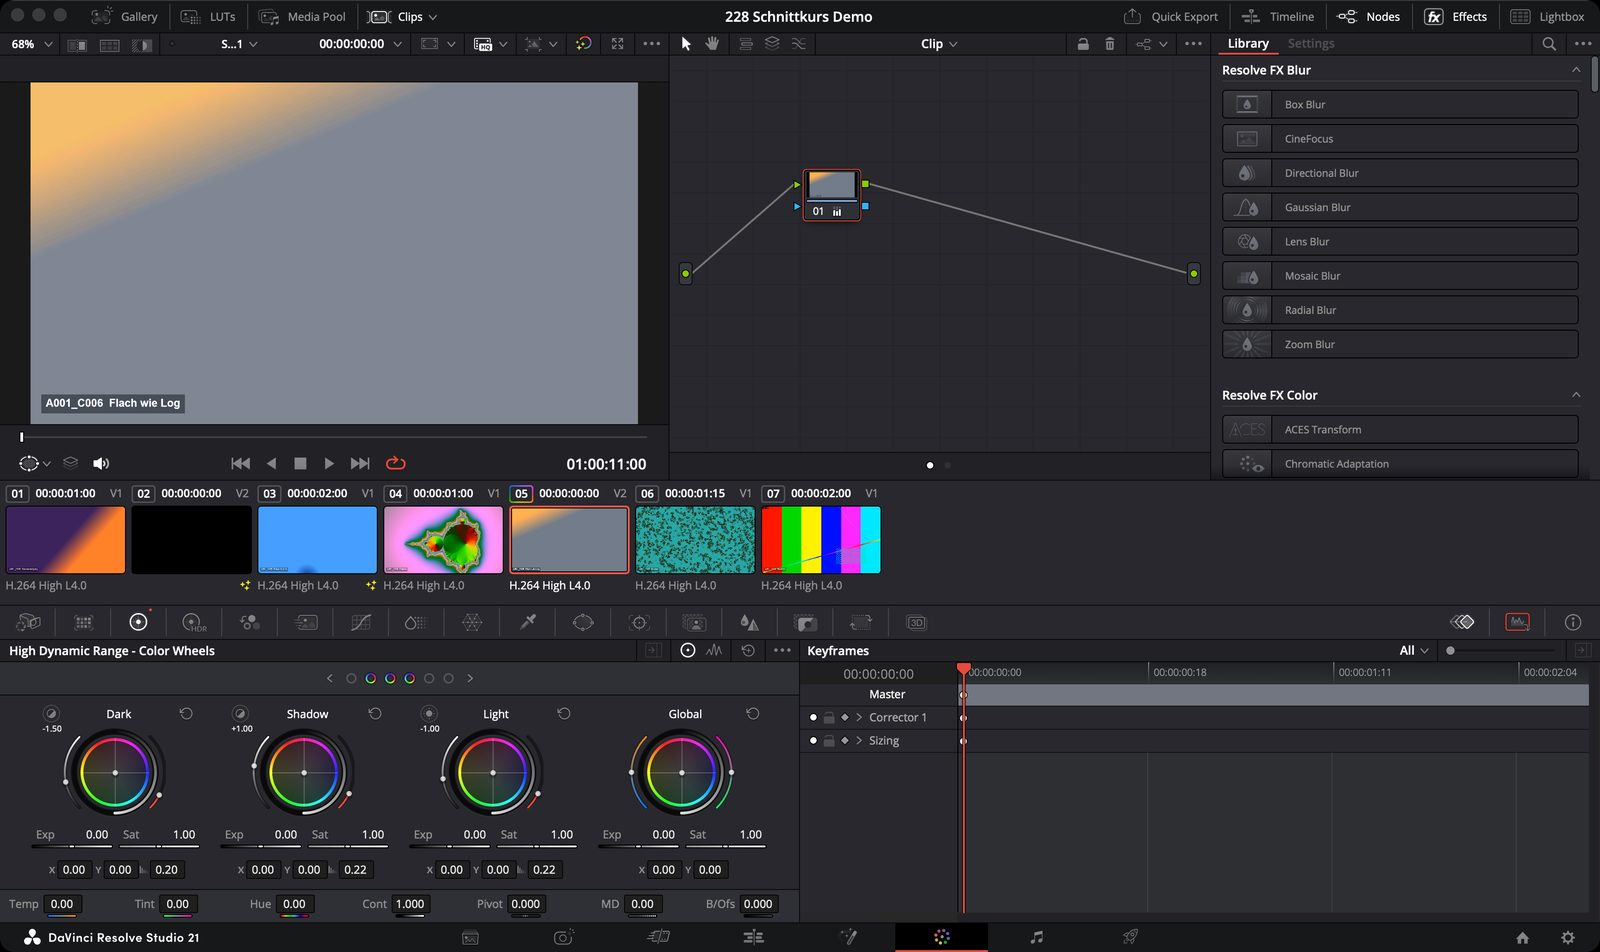
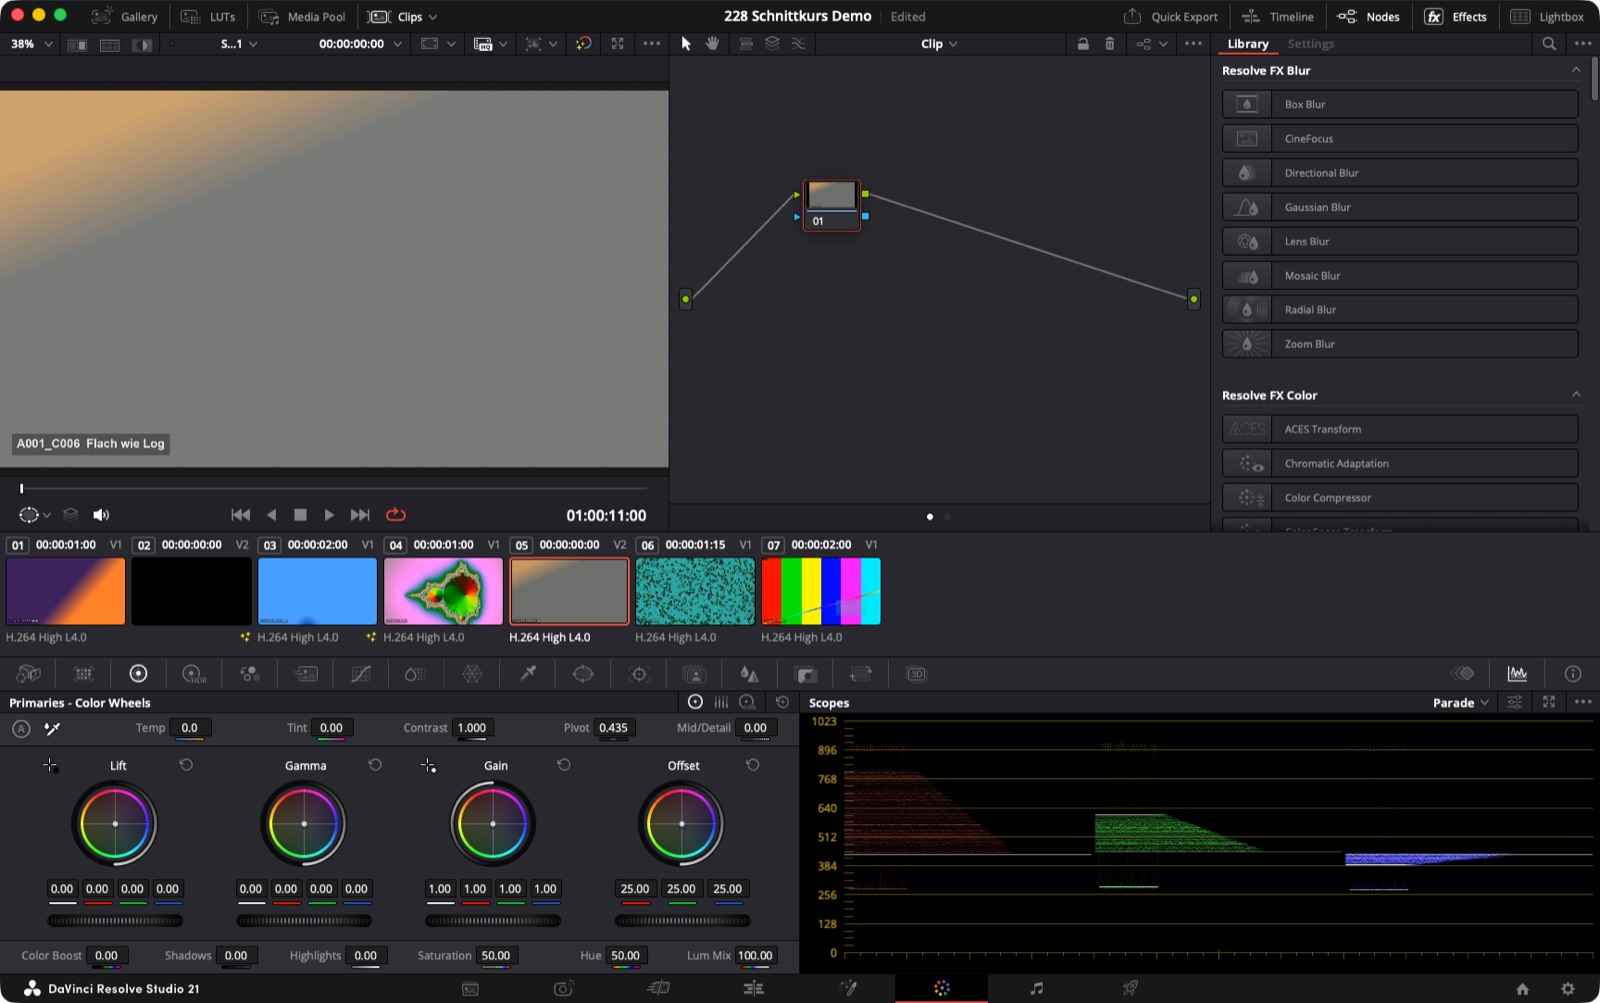
Neue Screenshots: Color Page mit Parade und Standardrädern, Cut Page, Einstellungen, Multicam, Untertitel und Hochformat

diff --git a/js/shots.js b/js/shots.js
@@ -4,8 +4,9 @@
 export const IMG = {
   project_manager: [1600, 1125], settings_master: [1040, 1080], settings_proxy: [1040, 1080], new_timeline: [1000, 576],
   media_page: [1600, 952], edit_full: [1600, 952], inspector: [1600, 952], effects_titles: [1600, 952], effects_transitions: [1600, 952],
-  title_timeline: [1600, 952], retime: [1600, 952], fusion_page: [1600, 952], color_page: [1600, 952], fairlight_page: [1600, 952], deliver_page: [1600, 952],
-  proxy_generator: [1400, 1009]
+  title_timeline: [1600, 952], retime: [1600, 952], fusion_page: [1600, 952], fairlight_page: [1600, 952], deliver_page: [1600, 952],
+  proxy_generator: [1400, 1009], color_page: [1600, 1003], cut_page: [1600, 1003], subtitles: [1600, 1003], vertical: [1600, 1003], multicam: [1600, 1003],
+  prefs_ui: [946, 800], prefs_save: [946, 800]
 };
 
 const TB = 48.8, TH = 3.4; // Werkzeugleiste der Edit Page
@@ -187,16 +188,19 @@ export const SHOTS = {
   l16: {
     why: { de: "Erst korrigieren, dann Look. Die Scopes messen, was das Auge falsch sieht.", en: "Correct first, then the look. Scopes measure what your eye gets wrong." },
     shots: [
-      { img: "color_page", title: { de: "Color Page", en: "Color page" }, spots: [
-        [[0, 4, 40, 43], "Viewer: hier ein flacher Clip wie Log Material.", "Viewer: here a flat clip like log footage."],
-        [[41, 4, 34, 44], "Node Editor: ein Node pro Aufgabe. Neuer Node [[opt+S]].", "Node editor: one node per task. New node [[opt+S]]."],
-        [[0, 51, 56, 11], "Clips der Timeline. Nächsten Clip wählen und [[eq]] übernimmt die Korrektur davor.", "Timeline clips. Select the next clip and [[eq]] copies the correction before it."],
-        [[0, 63, 50, 3.5], "Paletten. Die Räder sitzen unter dem dritten Symbol.", "Palettes. The wheels are under the third icon."],
-        [[0, 66.5, 50, 26.5], "Farbräder für Schatten, Mitten, Lichter, alles. In der Ansicht Primaries heißen sie Lift, Gamma, Gain, Offset.", "Color wheels for shadows, mids, highlights, everything. In the Primaries view they are called Lift, Gamma, Gain, Offset."],
-        [[0, 93, 25, 4], "Temp und Tint: Farbstich raus.", "Temp and Tint: remove color casts."]
+      { img: "color_page", title: { de: "Color Page mit Parade Scope, vorher", en: "Color page with parade scope, before" }, spots: [
+        [[0, 9, 41.8, 37.7], "Viewer: ein flacher Clip wie Log Material.", "Viewer: a flat clip like log footage."],
+        [[50.4, 17.9, 3.5, 5.2], "Node 01. Ein Node pro Aufgabe, neuer Node mit [[opt+S]].", "Node 01. One node per task, new node with [[opt+S]]."],
+        [[0, 53.2, 55.3, 11.3], "Clips der Timeline. Nächsten Clip wählen und [[eq]] übernimmt die Korrektur davor.", "Timeline clips. Select the next clip and [[eq]] copies the correction before it."],
+        [[7.8, 65.9, 1.8, 2.5], "Das dritte Symbol öffnet die Farbräder.", "The third icon opens the color wheels."],
+        [[0, 74.9, 49.9, 16.1], "Lift für Schatten, Gamma für Mitten, Gain für Lichter, Offset für alles.", "Lift for shadows, Gamma for mids, Gain for highlights, Offset for everything."],
+        [[7.9, 71.7, 14.5, 2.1], "Temp und Tint: Farbstich raus.", "Temp and Tint: remove color casts."],
+        [[50.2, 71.2, 49.8, 25.6], "Parade: Rot, Grün und Blau getrennt, Skala 0 bis 1023. Hier liegt alles zusammengedrückt in der Mitte, also Lift runter und Gain hoch.", "Parade: red, green and blue separately, scale 0 to 1023. Here everything is squeezed into the middle, so lower Lift and raise Gain."],
+        [[89.2, 69.1, 4, 1.8], "Hier wechselst du zwischen Parade, Waveform und Vectorscope.", "Switch between parade, waveform and vectorscope here."],
+        [[93.9, 65.9, 1.9, 2.5], "Scopes ein und aus.", "Scopes on and off."]
       ] }
     ],
-    steps: { de: ["[[shift+6]], dann Scopes einblenden (Symbol rechts über den Keyframes oder [[shift+cmd+W]]).", "Der Waveform zählt in Resolve von 0 (Schwarz) bis 1023 (Weiß). Das Dunkelste knapp über 0, das Hellste knapp unter 1023, nichts platt abschneiden.", "Etwas Graues steht im Parade Scope in Rot, Grün und Blau gleich hoch."], en: ["[[shift+6]], then show the scopes (icon on the right above the keyframes or [[shift+cmd+W]]).", "In Resolve the waveform runs from 0 (black) to 1023 (white). The darkest part just above 0, the brightest just below 1023, nothing clipped flat.", "Something grey sits at equal height in red, green and blue on the parade scope."] },
+    steps: { de: ["[[shift+6]], dann Scopes einblenden (Symbol rechts in der Palettenleiste) und oben rechts Parade oder Waveform wählen.", "Der Waveform zählt in Resolve von 0 (Schwarz) bis 1023 (Weiß). Das Dunkelste knapp über 0, das Hellste knapp unter 1023, nichts platt abschneiden.", "Etwas Graues steht im Parade Scope in Rot, Grün und Blau gleich hoch."], en: ["[[shift+6]], then show the scopes (icon on the right of the palette bar) and choose Parade or Waveform at the top right.", "In Resolve the waveform runs from 0 (black) to 1023 (white). The darkest part just above 0, the brightest just below 1023, nothing clipped flat.", "Something grey sits at equal height in red, green and blue on the parade scope."] },
     tips: { de: ["[[shift+D]]: alle Korrekturen aus und an, ehrlicher Vergleich.", "Graues, flaues Material ist meist Log. Dann Project Settings > Color Management > DaVinci YRGB Color Managed."], en: ["[[shift+D]]: all corrections off and on, an honest comparison.", "Grey, flat footage is usually log. Then Project Settings > Color Management > DaVinci YRGB Color Managed."] }
   },
   l17: {
@@ -232,6 +236,70 @@ export const SHOTS = {
     shots: [
       { img: "media_page", title: { de: "So sieht der Projektordner in Resolve aus", en: "This is the project folder in Resolve" }, spots: [
         [[15, 5, 23, 18], "Sechs feste Unterordner, immer gleich.", "Six fixed subfolders, always the same."]
+      ] }
+    ]
+  },
+  l3: {
+    shots: [
+      { img: "prefs_ui", title: { de: "Preferences > User > UI Settings", en: "Preferences > User > UI Settings" }, spots: [
+        [[50.1, 4.9, 11.1, 2.8], "Reiter User: deine persönlichen Einstellungen.", "User tab: your personal settings."],
+        [[38.9, 4.9, 11.1, 2.8], "Reiter System: dort unter Media Storage die schnellste Festplatte nach oben.", "System tab: under Media Storage move your fastest drive to the top."],
+        [[49.4, 14.4, 12.5, 2.6], "Language: am besten Englisch lassen. Alle Tutorials nutzen die englischen Namen.", "Language: best left on English. Every tutorial uses the English names."],
+        [[1.8, 21.9, 21.9, 2.8], "Project Save and Load: dort schaltest du Live Save ein, nächstes Bild.", "Project Save and Load: that's where you turn on Live Save, next picture."]
+      ] },
+      { img: "prefs_save", title: { de: "Preferences > User > Project Save and Load", en: "Preferences > User > Project Save and Load" }, spots: [
+        [[48.8, 24.5, 8.8, 2.3], "Live save: speichert jede Änderung sofort mit.", "Live save: stores every change immediately."],
+        [[48.8, 27.6, 12.5, 2.3], "Project backups: zusätzlich regelmäßige Sicherungskopien. Haken setzen.", "Project backups: regular backup copies on top. Tick it."],
+        [[48.8, 34, 29.4, 9.5], "Wie oft und wie lange gesichert wird. Die Standardwerte passen.", "How often and how long backups are kept. The defaults are fine."],
+        [[86.2, 94.4, 11.6, 3.1], "Save, danach Resolve einmal neu starten.", "Save, then restart Resolve once."]
+      ] }
+    ]
+  },
+  l14: {
+    shots: [
+      { img: "cut_page", title: { de: "Cut Page", en: "Cut page" }, spots: [
+        [[0, 6, 47.1, 62], "Media Pool mit deinen Clips.", "Media Pool with your clips."],
+        [[47.7, 3.7, 4.7, 1.8], "Source Clip, Source Tape, Timeline. Source Tape zeigt alle Clips des Bins als ein Band.", "Source Clip, Source Tape, Timeline. Source Tape shows all clips of the bin as one reel."],
+        [[16.3, 68.9, 14.1, 2.5], "Smart Insert, Append, Ripple Overwrite, Close Up, Place on Top, Source Overwrite.", "Smart Insert, Append, Ripple Overwrite, Close Up, Place on Top, Source Overwrite."],
+        [[13.7, 72.4, 86.3, 9.7], "Oben: die ganze Timeline im Überblick.", "Top: the whole timeline at a glance."],
+        [[13.4, 82.4, 86.6, 15], "Unten: vergrößert rund um den Playhead. Hier schneidest du genau.", "Bottom: zoomed in around the playhead. This is where you cut precisely."],
+        [[38.3, 97.1, 5.8, 2.9], "Cut Page: [[shift+3]].", "Cut page: [[shift+3]]."]
+      ] }
+    ]
+  },
+  l20: {
+    shots: [
+      { img: "multicam", title: { de: "Ein Multicam Clip von innen", en: "A multicam clip from the inside" }, spots: [
+        [[18.2, 9.4, 4.3, 5.7], "Der Multicam Clip im Media Pool. Rechtsklick > Open in Timeline zeigt ihn so von innen.", "The multicam clip in the Media Pool. Right click > Open in Timeline shows it from the inside like this."],
+        [[45.4, 3.5, 10.4, 1.8], "Name des Multicam Clips, hier aufgeklappt wie eine Timeline.", "Name of the multicam clip, opened up here like a timeline."],
+        [[0, 56.3, 15, 28.7], "Jede Kamera ist ein Winkel, Angle 1 bis 4, eine Spur pro Kamera.", "Each camera is an angle, Angle 1 to 4, one track per camera."],
+        [[15.1, 56.3, 14.3, 28.7], "Alle Winkel liegen synchron übereinander. Dafür sorgt Angle Sync.", "All angles sit in sync on top of each other. Angle Sync takes care of that."],
+        [[0, 85.3, 29.4, 11], "Auch der Ton jeder Kamera ist dabei.", "Each camera's sound is included too."],
+        [[30.2, 5.5, 41, 36.7], "Aufgeklappt zeigt der Viewer die oberste Spur. Zum Schneiden stellst du den Source Viewer auf Multicam und siehst alle Winkel nebeneinander.", "Opened up, the viewer shows the top track. For cutting you switch the source viewer to Multicam and see all angles side by side."]
+      ] }
+    ]
+  },
+  l21: {
+    shots: [
+      { img: "subtitles", title: { de: "Untertitel in der Edit Page", en: "Subtitles on the Edit page" }, spots: [
+        [[0, 63.8, 84.2, 2.6], "Untertitelspur ST1. Jeder Untertitel ist ein eigener Clip.", "Subtitle track ST1. Each subtitle is a clip of its own."],
+        [[62.2, 63.8, 7.2, 2.6], "Ein Untertitel. Kanten ziehen ändert, wann er kommt und geht.", "One subtitle. Dragging the edges changes when it appears and leaves."],
+        [[34.5, 30.6, 16.6, 3.4], "Automatische Untertitel setzen Satzzeichen und machen Fehler, hier Teameline statt Timeline. Immer lesen.", "Automatic subtitles add punctuation and make mistakes, here Teameline instead of Timeline. Always read them."],
+        [[76.5, 20.7, 22, 9.4], "Inspector unter Caption: hier den Text korrigieren und die Satzzeichen löschen.", "Inspector under Caption: correct the text here and delete the punctuation."],
+        [[87.8, 11.1, 11.6, 2.4], "Reiter Track: Schrift, Größe und Position für alle Untertitel der Spur.", "Track tab: font, size and position for all subtitles on the track."],
+        [[75.7, 37.7, 24.3, 10.2], "Liste aller Untertitel. Prev und Next springen durch.", "List of all subtitles. Prev and Next step through them."],
+        [[16.8, 83.5, 67.4, 6.1], "Aus dieser Sprachspur hat Resolve die Untertitel erzeugt.", "Resolve created the subtitles from this speech track."]
+      ] }
+    ]
+  },
+  l22: {
+    shots: [
+      { img: "vertical", title: { de: "Hochformat Timeline Reel_v01", en: "Vertical timeline Reel_v01" }, spots: [
+        [[49.1, 8.3, 14.4, 34.1], "Viewer im Hochformat 9:16. Querformat Clips füllen das Bild, weil Scale full frame with crop eingestellt ist.", "Viewer in vertical 9:16. Horizontal clips fill the frame because Scale full frame with crop is set."],
+        [[60, 6, 4.7, 1.6], "Eigene Timeline Reel_v01 mit 1080 × 1920.", "A separate timeline Reel_v01 at 1080 × 1920."],
+        [[76.8, 13.6, 18.6, 4.6], "Zoom und Position X: Bildausschnitt setzen.", "Zoom and Position X: set the framing."],
+        [[76.6, 30.6, 23, 2.1], "AI Smart Reframe, nur Studio: Ausschnitt automatisch.", "AI Smart Reframe, Studio only: automatic framing."],
+        [[15.1, 66.5, 80, 9.9], "Dieselben Clips wie im Querformat, jeder wird neu gesetzt.", "The same clips as in the horizontal version, each one reframed."]
       ] }
     ]
   }
